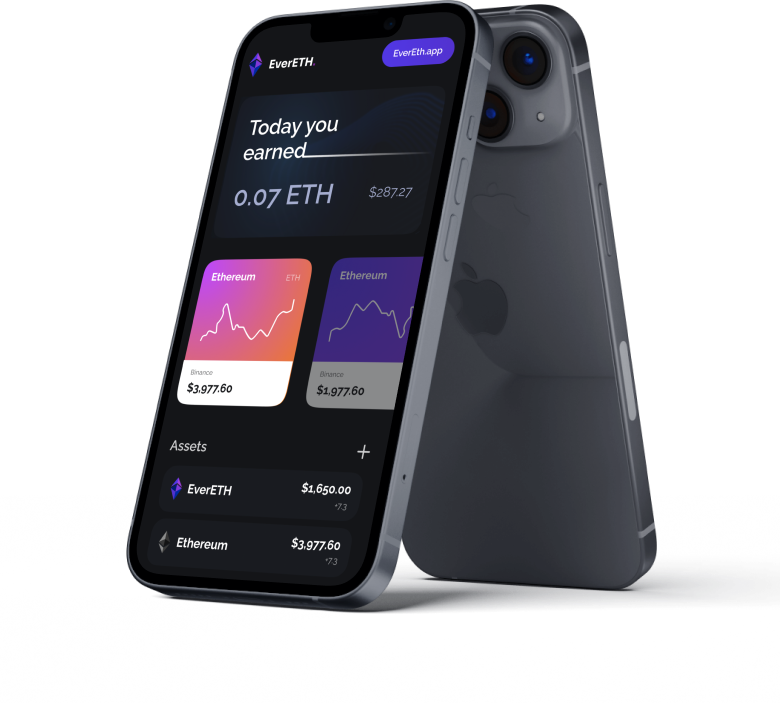
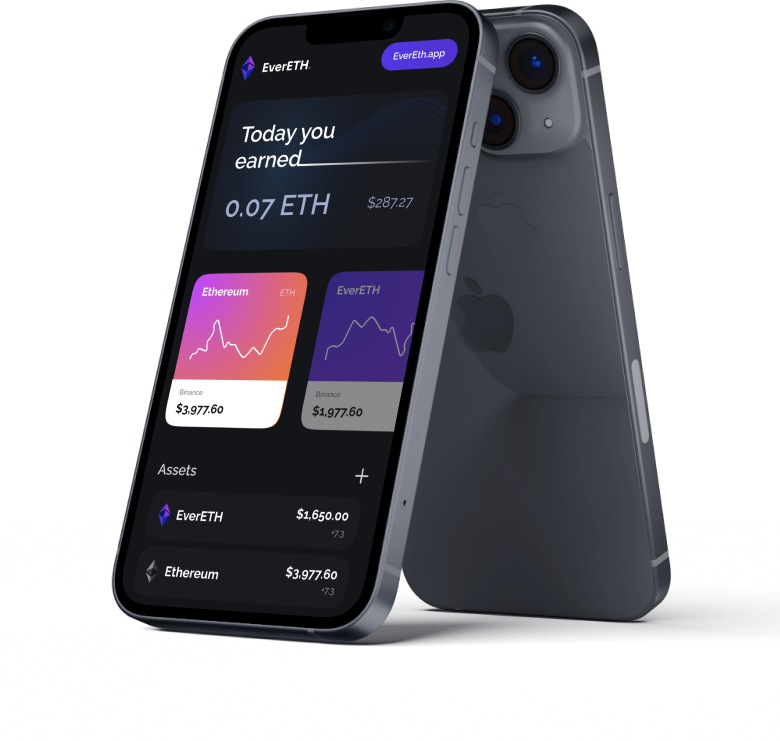
fix ui issues

diff --git a/src/components/intro/index.tsx b/src/components/intro/index.tsx
@@ -16,7 +16,10 @@ import Spinner from "../spinner";
 
 import {
   BENZINGA,
+  BINANCE,
   BLOOMBERG,
+  COINGECKO,
+  COINMARKETCAP,
   EVERETHAPP,
   EVERETHSWAP,
   YAHOO,
@@ -63,6 +66,9 @@ const useStyles = createUseStyles({
     },
   },
   typist: {
+    display: "flex",
+    flex: 1,
+    flexDirection: "column",
     "@media screen and (max-width: 1000px)": {
       textAlign: "center",
     },
@@ -173,7 +179,7 @@ const useStyles = createUseStyles({
       marginRight: 8,
     },
     "&:hover": {
-      backgroundColor: colors.lighterGray,
+      backgroundColor: colors.darkPurple,
       fontWeight: 700,
     },
   },
@@ -264,14 +270,14 @@ const useStyles = createUseStyles({
     "& img:nth-child(1)": {
       "@media screen and (min-width: 1000px)": {
         position: "absolute",
-        right: 180,
+        right: 340,
         top: 120,
       },
     },
     "& img:nth-child(2)": {
       "@media screen and (min-width: 1000px)": {
         position: "absolute",
-        right: 40,
+        right: 183,
       },
     },
   },
@@ -310,15 +316,14 @@ function Intro({ everETHDetails, everETHDetailsIsLoading }) {
         ].join(" ")}
       >
         <span className={classes.title}>{`Hold EverETH`}</span>
-        <Typist className={classes.typist}>
+        <Typist className={classes.typist} cursor={{ show: false }}>
+          <Typist.Delay ms={500} />
           <span className={classes.title}>{`Earn`}</span>
-        </Typist>
-        <Typist className={classes.typist}>
+          <Typist.Delay ms={500} />
           <span className={classes.title}>{`Ethereum`}</span>
         </Typist>
         <span className={classes.desc}>
-          {`The fastest and easiest way to earn Ethereum in\n a fully decentralised
-          ecosystem.`}
+          {`The fastest and easiest way to earn Ethereum in a\n fully decentralised ecosystem.`}
         </span>
 
         <div className={classes.action}>
@@ -411,17 +416,17 @@ function Intro({ everETHDetails, everETHDetailsIsLoading }) {
 
         <div className={classes.featured}>
           <div>
-            <a href={EVERETHSWAP} target="_blank" rel="noreferrer noopener">
+            <a href={BINANCE} target="_blank" rel="noreferrer noopener">
               <img src={binance} alt="Binance" className={classes.icons} />
             </a>
-            <a href={EVERETHSWAP} target="_blank" rel="noreferrer noopener">
+            <a href={COINMARKETCAP} target="_blank" rel="noreferrer noopener">
               <img
                 src={coinMarket}
                 alt="CoinMarketCap"
                 className={classes.icons}
               />
             </a>
-            <a href={EVERETHSWAP} target="_blank" rel="noreferrer noopener">
+            <a href={COINGECKO} target="_blank" rel="noreferrer noopener">
               <img src={coinGecko} alt="CoinGecko" />
             </a>
           </div>

diff --git a/src/components/calc/calc.tsx b/src/components/calc/calc.tsx
@@ -82,6 +82,9 @@ const useStyles = createUseStyles({
     marginBottom: 24,
     padding: 24,
     boxSizing: "border-box",
+    "@media screen and (min-width: 1000px)": {
+      width: 532,
+    },
     "@media screen and (max-width: 1000px)": {
       padding: 10,
     },
@@ -188,6 +191,7 @@ const useStyles = createUseStyles({
       top: 8,
       left: 16,
       right: 16,
+      bottom: 8,
     },
     color: colors.lighterGray,
     fontSize: 16,
@@ -197,7 +201,7 @@ const useStyles = createUseStyles({
     },
   },
   rec: {
-    marginRight: -460,
+    marginRight: -530,
     marginBottom: 188,
     width: 579,
     "@media screen and (max-width: 1000px)": {
@@ -309,12 +313,11 @@ function Calc({ ethPrice, ethPriceIsLoading }) {
           <span>{`Planet.People.\nProfit.`}</span>
           <span>
             {`Unlike mining EverETH is programmed to strive\n on providing investors
-            the ability to earn\n ethereum, without damaging the enviroment or\n
-            theirt wallets.`}
+            the ability to earn\n ethereum, without damaging the enviroment or
+            their wallets.`}
           </span>
           <span>
-            {`Become a part of the Everth family today, and\n earn Ethereum
-            passively for the rest of your life.`}
+            {`Become a part of the EverETH family today, and\n earn Ethereum passively for the rest of your life.`}
           </span>
         </animated.section>
 
@@ -324,8 +327,8 @@ function Calc({ ethPrice, ethPriceIsLoading }) {
           <div className={classes.table}>{renderTableData()}</div>
           <div className={classes.slider}>
             <div className={classes.selectedNumber}>
-              <span>Your Number:</span>
-              <span>{`${selectedSliderValue} Billions`}</span>
+              <span>{`Your Holdings:`}</span>
+              <span>{`${selectedSliderValue} Billion`}</span>
             </div>
             <div
               style={{
@@ -352,11 +355,11 @@ function Calc({ ethPrice, ethPriceIsLoading }) {
             </div>
 
             <div className={classes.range}>
-              <span>{`${min} Billions`}</span>
-              <span>{`${max} Trillions`}</span>
+              <span>{`${min} Billion`}</span>
+              <span>{`${max} Trillion`}</span>
             </div>
             <div style={{ color: colors.lighterGray, textAlign: "center" }}>
-              <span>results are based on 24 hour trading volume of 1M$</span>
+              <span>{`These results are based on a 24 hour trading volume of $1M`}</span>
             </div>
           </div>
         </animated.section>

diff --git a/src/components/navbar/index.tsx b/src/components/navbar/index.tsx
@@ -29,9 +29,15 @@ const useStyles = createUseStyles({
   logo: {
     display: "flex",
     flex: 1,
-    flexDirection: "row",
-    alignItems: "center",
-    justifyContent: "flex-start",
+    "& a": {
+      textDecoration: "none",
+      color: colors.white,
+      display: "flex",
+      flex: 1,
+      flexDirection: "row",
+      alignItems: "center",
+      justifyContent: "flex-start",
+    },
   },
   menu: {
     "@media screen and (max-width: 1000px)": {
@@ -64,12 +70,10 @@ const useStyles = createUseStyles({
     flex: 1,
     justifyContent: "flex-end",
     alignItems: "center",
-    cursor: "pointer",
     "& a": {
       backgroundColor: colors.purple,
       "&:hover": {
-        backgroundColor: colors.lighterGray,
-        color: colors.purple,
+        backgroundColor: colors.darkPurple,
         fontWeight: 700,
       },
       padding: {
@@ -100,7 +104,7 @@ const navbarMenu = [
   },
   {
     key: "#section-faq",
-    title: "FaQ",
+    title: "FAQ",
   },
   {
     key: "#section-testimonial",
@@ -113,8 +117,10 @@ function Navbar() {
   return (
     <section className={classes.container}>
       <section className={classes.logo}>
-        <img src={logo} alt="logo" style={{ width: 47, height: 47 }} />
-        <span>EverETH</span>
+        <a href={"./"}>
+          <img src={logo} alt="logo" style={{ width: 47, height: 47 }} />
+          <span>EverETH</span>
+        </a>
       </section>
 
       <section className={classes.menu}>

diff --git a/src/components/about/index.tsx b/src/components/about/index.tsx
@@ -124,9 +124,8 @@ function About() {
       <section id="section-about" className={classes.container}>
         <animated.section className={classes.info} style={animation}>
           <div className={[classes.info, classes.mobileImage].join(" ")}>
-            <span className={classes.title}>Worldwide devidend</span>
-            <span className={classes.title}>payments in</span>
-            <span className={classes.title}>Ethereum</span>
+            <span className={classes.title}>Worldwide devidend </span>
+            <span className={classes.title}>payments in Ethereum</span>
             <span className={classes.desc}>
               The safest and easiest way to earn WTH on Binance Smart Chain
               Passively. and easiest way to earn Ethereum in a fully
@@ -147,7 +146,7 @@ function About() {
         </animated.section>
 
         <animated.section className={classes.image} style={animation}>
-          <img src={world} alt="world" style={{ width: "50vw", height: 439 }} />
+          <img src={world} alt="world" style={{ width: "100%", height: 439 }} />
         </animated.section>
       </section>
     </VisibilitySensor>

diff --git a/src/components/features/index.tsx b/src/components/features/index.tsx
@@ -123,19 +123,19 @@ const data = [
   {
     key: 1,
     name: "Comfortable Ecosystem",
-    desc: `You don’t need tp cliam your\n earned Ethereum.\n its automatically sent to your\n wallet.`,
+    desc: `You don’t need to cliam your\n earned Ethereum.\n its automatically sent to your\n wallet.`,
     iconName: graph,
   },
   {
     key: 2,
     name: "10% Dividends",
-    desc: `10%of every transaction value is\n taken and redistributed to all\n holders\n Hold EverETH tokens and earn\n Ethereum.`,
+    desc: `10% of every transaction value is\n taken and redistributed to all\n holders\n Hold EverETH tokens and earn\n Ethereum.`,
     iconName: star,
   },
   {
     key: 3,
     name: "Trusted Security",
-    desc: `The smart contract was being\n audited by TechRate,\n and is currently onboarding for\n Certik Audit with 12 month of\n Sky Net.`,
+    desc: `The smart contract was being\n audited by TechRate,\n and is currently onboarding for\n Certik Audit with 12 months of\n Sky Net.`,
     iconName: lock,
   },
 ];

diff --git a/src/components/swap/index.tsx b/src/components/swap/index.tsx
@@ -80,7 +80,7 @@ const useStyles = createUseStyles({
       width: 237,
     },
     "&:hover": {
-      backgroundColor: colors.lighterGray,
+      backgroundColor: colors.darkPurple,
       fontWeight: 700,
     },
   },
@@ -129,9 +129,11 @@ function Swap() {
         </section>
         <section className={classes.info}>
           <span className={classes.title}>
-            {`Manage your dividends\n in one Place`}
+            {`Manage your dividends\n in one place`}
           </span>
-          <span className={classes.desc}>EverETH Swap is Coming soon</span>
+          <span
+            className={classes.desc}
+          >{`EverETH Wallet is Coming soon.`}</span>
 
           <a
             className={classes.action}

diff --git a/src/constants/urls.ts b/src/constants/urls.ts
@@ -5,6 +5,9 @@ export const DISCORD = "https://discord.gg/7fTrE99ebk";
 export const TWITTER = "https://www.twitter.com/everethofficial";
 export const EVERETHAPP = "https://evereth.app/";
 export const EVERETHSWAP = "https://swap.evereth.app/";
+export const BINANCE = "https://www.binance.com/";
+export const COINMARKETCAP = "https://coinmarketcap.com/currencies/evereth/";
+export const COINGECKO = "https://coingecko.com/";
 export const BENZINGA =
   "https://www.benzinga.com/pressreleases/21/10/23777110/evereth-is-recording-a-total-of-1-5m-in-ethereum-reflections";
 export const YAHOO =

diff --git a/src/components/rights/index.tsx b/src/components/rights/index.tsx
@@ -35,10 +35,12 @@ function Rights() {
 
   return (
     <section className={classes.container}>
-      <span className={classes.rights}>Cryptolly ©. All rights reserved.</span>
+      <span
+        className={classes.rights}
+      >{`EverETH ©. All rights reserved.`}</span>
       <div>
         <a href="./" className={classes.rights} style={{ marginRight: 10 }}>
-          Term of Service
+          {`Term of Service`}
         </a>
         <a
           href="./"

diff --git a/public/index.html b/public/index.html
@@ -9,7 +9,7 @@
       name="description"
       content="Web site created using create-react-app"
     />
-    <!-- <link rel="apple-touch-icon" href="%PUBLIC_URL%/logo192.png" /> -->
+    <link rel="apple-touch-icon" href="%PUBLIC_URL%/logo192.png" />
     <!--
       manifest.json provides metadata used when your web app is installed on a
       user's mobile device or desktop. See https://developers.google.com/web/fundamentals/web-app-manifest/

diff --git a/src/components/roadmap/index.tsx b/src/components/roadmap/index.tsx
@@ -210,7 +210,7 @@ const data = [
       {
         key: 31,
         title: "NFT Collectione",
-        checked: false,
+        checked: true,
       },
       {
         key: 32,
@@ -220,7 +220,7 @@ const data = [
       {
         key: 33,
         title: "Charity Events",
-        checked: false,
+        checked: true,
       },
       {
         key: 34,

diff --git a/src/components/footer/index.tsx b/src/components/footer/index.tsx
@@ -162,7 +162,7 @@ function Footer() {
           </div>
           <div className={classes.col}>
             <a href="#section-testimonial">Testimonial</a>
-            <a href="#section-faq">FaQ</a>
+            <a href="#section-faq">FAQ</a>
           </div>
         </div>
       </section>

diff --git a/src/assets/colors.ts b/src/assets/colors.ts
@@ -13,6 +13,7 @@ const colors = {
   green: "#11CABE",
   pink: "#BD47FB",
   lightergreen: "#398964",
+  darkPurple: "#3F23AA",
 };
 
 export default colors;
